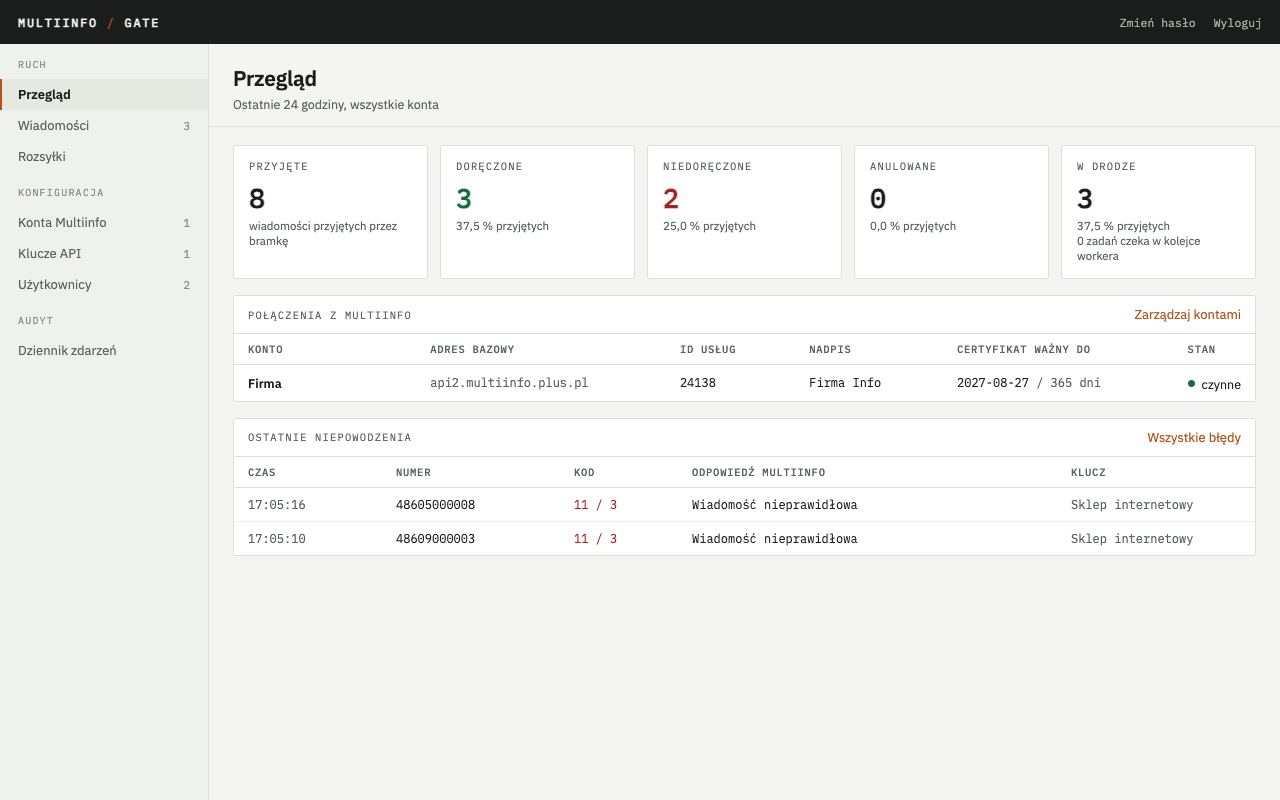
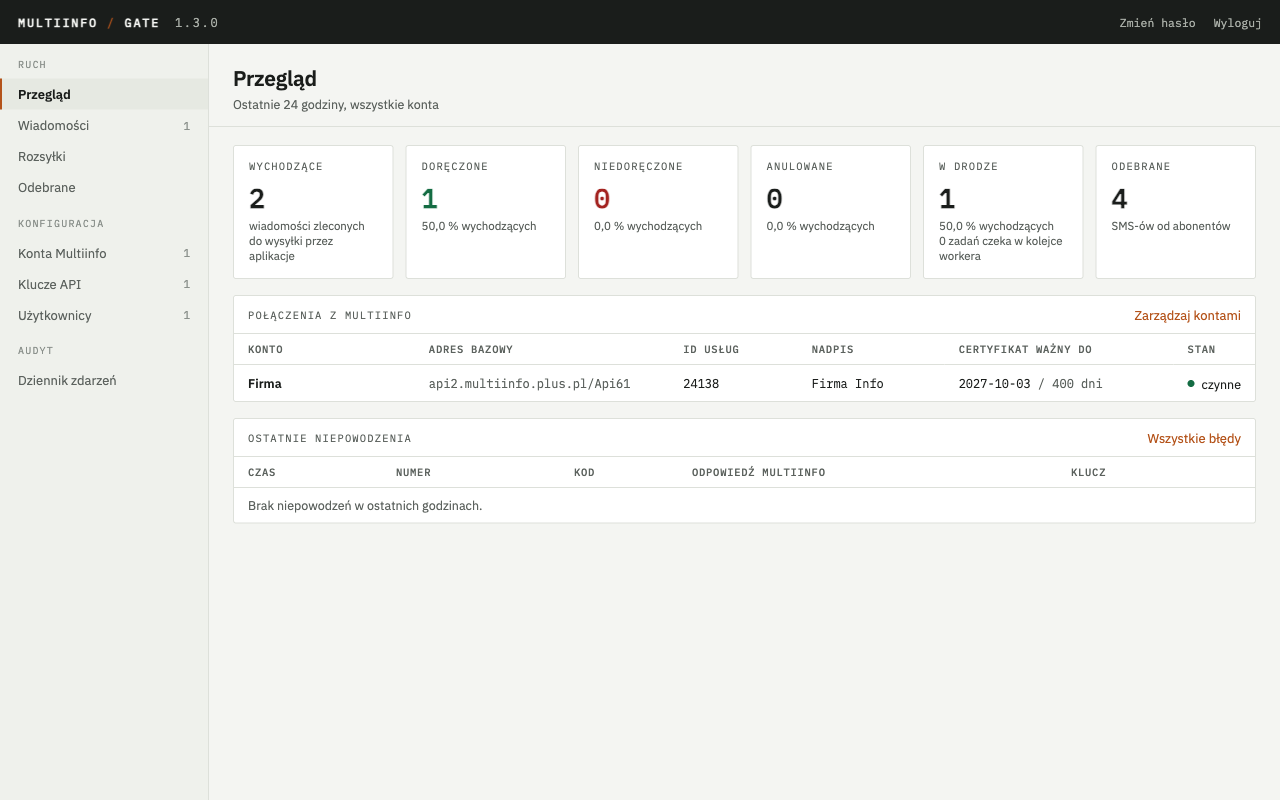
docs: odbiór we wstępie API, zrzuty karty konta i szczegółu odebranej, uwaga o Safari, nowy zrzut przeglądu

diff --git a/docs/uruchomienie.md b/docs/uruchomienie.md
@@ -131,7 +131,7 @@ opiekun techniczny. Adres wpisuje się w bramce jako adres bazowy konta (rozdzia
 
 Każde konto Multiinfo ma numer (krótki albo długi), na który abonenci mogą odpisywać. Domyślnie
 odebrane SMS-y są widoczne wyłącznie w panelu WWW Multiinfo. Jeżeli aplikacja ma je dostawać
-przez bramkę, administrator Multiinfo musi ustawić na koncie kierowanie odebranych wiadomości do
+przez bramkę, administrator Polkomtel musi ustawić na koncie kierowanie odebranych wiadomości do
 API - wszystkich albo tylko zaczynających się od określonego prefiksu. Bez tego ustawienia bramka
 pyta Multiinfo i zawsze dostaje pustą odpowiedź. Jak bramka odbiera i przekazuje wiadomości,
 opisuje punkt 4.5 (włączenie przy kluczu) i 5.5 (pierwsza próba).
@@ -380,6 +380,11 @@ Gdy nie działa:
 - `bind [127.0.0.1]:8081: Address already in use` - port 8081 na własnym komputerze zajmuje
   inny program; należy użyć innego portu lokalnego, np. `-L 18081:127.0.0.1:8081` i adresu
   `http://127.0.0.1:18081`
+- po wpisaniu kodu z aplikacji panel wraca do ekranu hasła z komunikatem „Logowanie trwało zbyt
+  długo” - przeglądarka nie zapisała ciasteczka logowania; ciasteczka panelu mają znacznik
+  `Secure`, który przez tunel (`http://127.0.0.1`) honorują Chrome i Firefox, ale nie Safari.
+  Panel przez tunel należy otwierać w Chrome albo Firefoksie; pod własną domeną z HTTPS
+  (rozdział 6) działa każda przeglądarka
 
 ### 4.2. Konto Multiinfo
 
@@ -462,6 +467,8 @@ straci zaznaczenie, bramka przestaje pytać o tę usługę. Stan odbioru widać 
 w sekcji „Odbiór wiadomości”: czy jest aktywny, kiedy bramka ostatnio pytała i kiedy ostatnio
 coś przyszło; usługa zatrzymana błędem Multiinfo (np. nieaktywna) pokazuje przyczynę i wraca do
 pracy po zapisie dowolnej zmiany klucza albo konta.
+
+![Karta konta, sekcja Odbiór wiadomości: usługa z odbierającym kluczem, stan aktywny z czasem ostatniego pytania i ostatniej odebranej](obrazki/konto-odbior.png)
 
 Po zapisaniu panel wyświetla jeden raz dwie wartości: **klucz** (`mig_live_...`) oraz - gdy
 podano adres webhooka - **sekret webhooka**. W bazie bramki pozostaje tylko skrót klucza; panel
@@ -572,11 +579,19 @@ skutkiem. Jeżeli lista pozostaje pusta, sprawdź na karcie konta sekcję „Odb
 a „aktywny” z bieżącym czasem pytania oznacza, że bramka pyta, ale Multiinfo nic nie wydaje -
 wtedy wiadomości najpewniej trafiają do panelu WWW Multiinfo zamiast do API.
 
-![Zakładka Odebrane z jedną wiadomością od abonenta](obrazki/odebrane.png)
+![Zakładka Odebrane z trzema wiadomościami od abonentów, jedna powiązana z wysłaną wiadomością](obrazki/odebrane.png)
+
+Szczegół odebranej wiadomości (odnośnik w kolumnie identyfikatora) pokazuje dane z Multiinfo
+(numer nadawcy, numer usługi, identyfikator w Multiinfo, protokół), wiadomość wysłaną, na którą
+abonent najpewniej odpowiada, odpowiedzi wysłane w wątku oraz ślad dostaw do aplikacji: który
+klucz dostał powiadomienie, ile było prób i jaka była odpowiedź aplikacji.
+
+![Szczegół odebranej wiadomości: treść, dane, powiązana wysłana wiadomość i dostawa do aplikacji ze stanem doręczony](obrazki/odebrana.png)
 
 Odpowiedź na odebraną wiadomość wysyła się zwykłym `POST /v1/messages` z polem `inReplyTo`
 (`docs/api.md`, rozdział 5a.3); przykładowa aplikacja ma do tego formularz w sekcji „Odebrane
-SMS-y”.
+SMS-y”, a wysłana w ten sposób wiadomość ma w panelu wiersz „Odpowiedź na” z odnośnikiem do
+odebranej.
 
 ## 6. Wystawienie API pod własną domeną
 

diff --git a/docs/api.md b/docs/api.md
@@ -1,10 +1,16 @@
 # API bramki dla aplikacji klienckich
 
-Bramka udostępnia aplikacjom interfejs HTTP z danymi w formacie JSON. Aplikacja przekazuje numer
-odbiorcy i treść, a bramka odpowiada za dobór kodowania, podział na części, uwierzytelnienie
-certyfikatem w Multiinfo, ponowienia, raporty doręczeń i powiadomienia. Dokument opisuje każde
-wywołanie w tym samym układzie: przeznaczenie, pełne żądanie `curl`, odpowiedź oraz błędy tego
-wywołania wraz z zalecanym postępowaniem.
+Bramka udostępnia aplikacjom interfejs HTTP z danymi w formacie JSON i obsługuje ruch w obie
+strony. W stronę abonenta: aplikacja przekazuje numer odbiorcy i treść, a bramka odpowiada za
+dobór kodowania, podział na części, uwierzytelnienie certyfikatem w Multiinfo, ponowienia,
+raporty doręczeń i powiadomienia (rozdziały 3-6). Od abonenta: SMS-y wysłane na numer usługi
+bramka odbiera z Multiinfo sama, w tle, i przekazuje aplikacji powiadomieniem `message.received`
+na adres webhooka klucza, a ponadto udostępnia je do odczytu (`GET /v1/inbound`) i pozwala na nie
+odpowiedzieć w wątku (`inReplyTo`) - rozdział 5a. Odbiór wymaga dwóch ustawień: kierowania
+odebranych wiadomości do API na koncie Multiinfo (ustawia administrator Polkomtel) oraz
+zaznaczenia odbioru przy kluczu API w panelu bramki. Dokument opisuje każde wywołanie w tym samym
+układzie: przeznaczenie, pełne żądanie `curl`, odpowiedź oraz błędy tego wywołania wraz
+z zalecanym postępowaniem.
 
 ## 1. Informacje ogólne
 
@@ -397,7 +403,7 @@ słownika z rozdziału 7; wartość `null` oznacza, że raport nie objął tego 
 ## 5a. Wiadomości przychodzące
 
 Abonent może odpowiedzieć na SMS-a albo napisać na numer usługi z własnej inicjatywy. Multiinfo
-domyślnie kieruje takie wiadomości do swojego panelu WWW; administrator Multiinfo może przełączyć
+domyślnie kieruje takie wiadomości do swojego panelu WWW; administrator Polkomtel może przełączyć
 kierowanie na API (wszystkie wiadomości albo tylko z określonym prefiksem treści). Bramka odbiera
 je wtedy sama, bez udziału aplikacji, i przekazuje dwoma kanałami: powiadomieniem
 `message.received` (rozdział 6) do każdego klucza, który ma włączony odbiór, oraz do odczytu

diff --git a/README.md b/README.md
@@ -4,7 +4,7 @@ Bramka SMS między Twoimi aplikacjami a API Multiinfo (Plus, Polkomtel). Trzyma 
 kliencki, login i hasło do Multiinfo w jednym miejscu, a aplikacjom wystawia proste HTTP API
 z kluczem w nagłówku. Aplikacja wysyłająca SMS-y nie instaluje certyfikatów i nie zna ASPX.
 
-![Przegląd: liczniki doręczeń z ostatniej doby, stan połączeń z Multiinfo i ostatnie niepowodzenia](docs/obrazki/przeglad.png)
+![Przegląd: liczniki wiadomości wychodzących i odebranych z ostatniej doby, stan połączeń z Multiinfo i ostatnie niepowodzenia](docs/obrazki/przeglad.png)
 
 ![Szczegół wiadomości z podziałem na pięć części UCS-2, przebiegiem doręczenia i śladem protokołu](docs/obrazki/wiadomosc-dluga.png)
 
